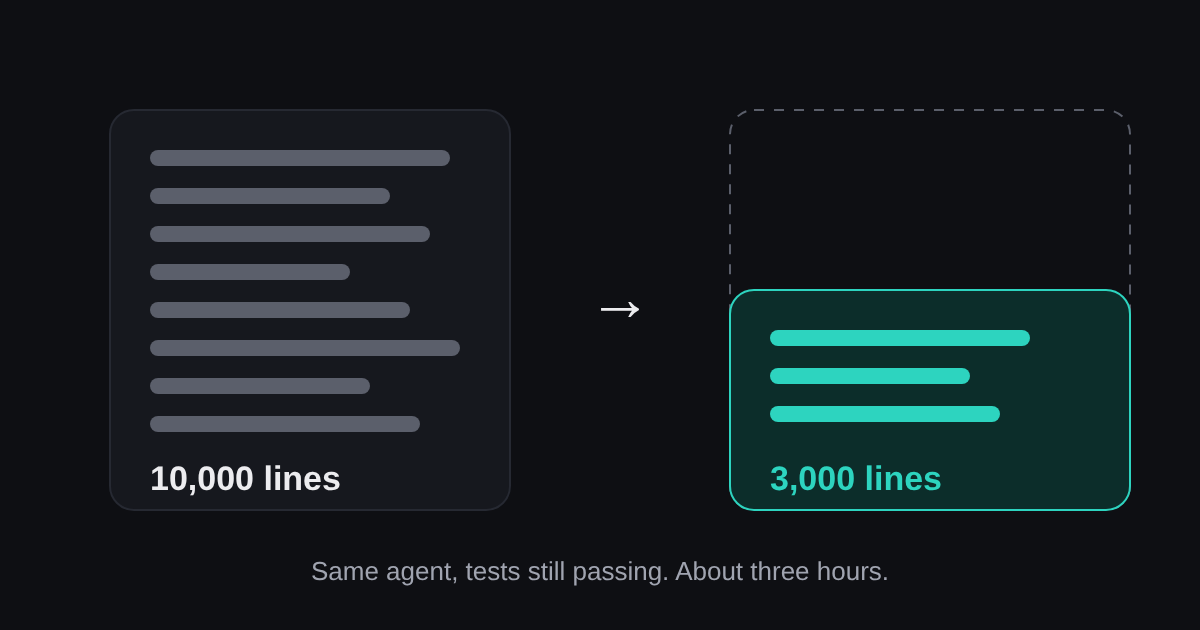
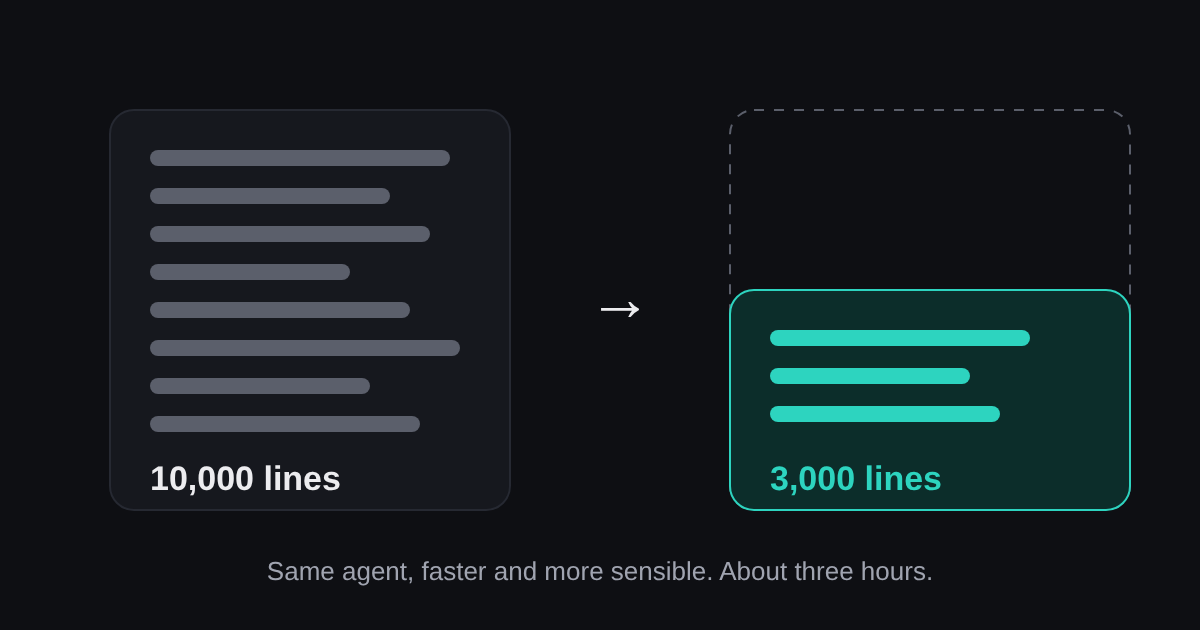
Drop "tests still passed" claims from the article and cover
Tests that tested nothing useful were removed in the same session, so
"tests passed" would overstate the evidence. Say what actually changed
(faster, more sensible answers, workflows finish) instead.

Claude-Session: https://claude.ai/code/session_01V2xL9dAJecGNfvtzopmVZA

Changed region(s): [[0.2158, 0.8746, 0.7708, 0.9349]]

diff --git a/src/content/posts/10k-lines-to-3k.md b/src/content/posts/10k-lines-to-3k.md
@@ -15,9 +15,9 @@ takeaways:
 
 AI makes it easy to write code. It also makes it easy to write too much of it.
 
-Not long ago I found out how much. I asked Claude Code to clean up an AI agent I had been building, one that can carry out tasks for users and guide them around the app. Three hours later the codebase had gone from 10,000 lines to 3,000, and the tests still passed.
+Not long ago I found out how much. I asked Claude Code to clean up an AI agent I had been building, one that can carry out tasks for users and guide them around the app. Three hours later the codebase had gone from 10,000 lines to 3,000.
 
-The agent got better, too. The workflows that used to stop halfway when the data was messy became cleaner.
+The agent got better, too. It became faster and its answers made more sense. The workflows that used to stop halfway when the data was messy now finish.
 
 I had sensed that something was off. I had not realised how much. This article is about how complexity sneaks in, and what we changed afterwards.
 
@@ -43,7 +43,7 @@ The simplest way I can say it: less code, less room for bugs.
 
 ## The switch
 
-Six months ago we moved to Claude Code entirely. At that time I was working on my first ever agent prototype and the thing I remember is the cleanup of that prototype. I had felt for a while that it had too much code, too many helpers and handlers. I asked Cursor to clean it up multiple times, but I could not get it done properly. Claude Code did it in one session, about three hours, and the tests kept passing. It was one of the first moments I thought: I can trust this. Not entirely, but mostly.
+Six months ago we moved to Claude Code entirely. At that time I was working on my first ever agent prototype and the thing I remember is the cleanup of that prototype. I had felt for a while that it had too much code, too many helpers and handlers. I asked Cursor to clean it up multiple times, but I could not get it done properly. Claude Code did it in one session, about three hours. It also removed tests that tested nothing useful and helped me improve the evals. It was one of the first moments I thought: I can trust this. Not entirely, but mostly.
 
 Then came the real change, which was a decision, not a feature. I said to myself: I know how to code, but now I trust you. Writing the code is your responsibility.
 
